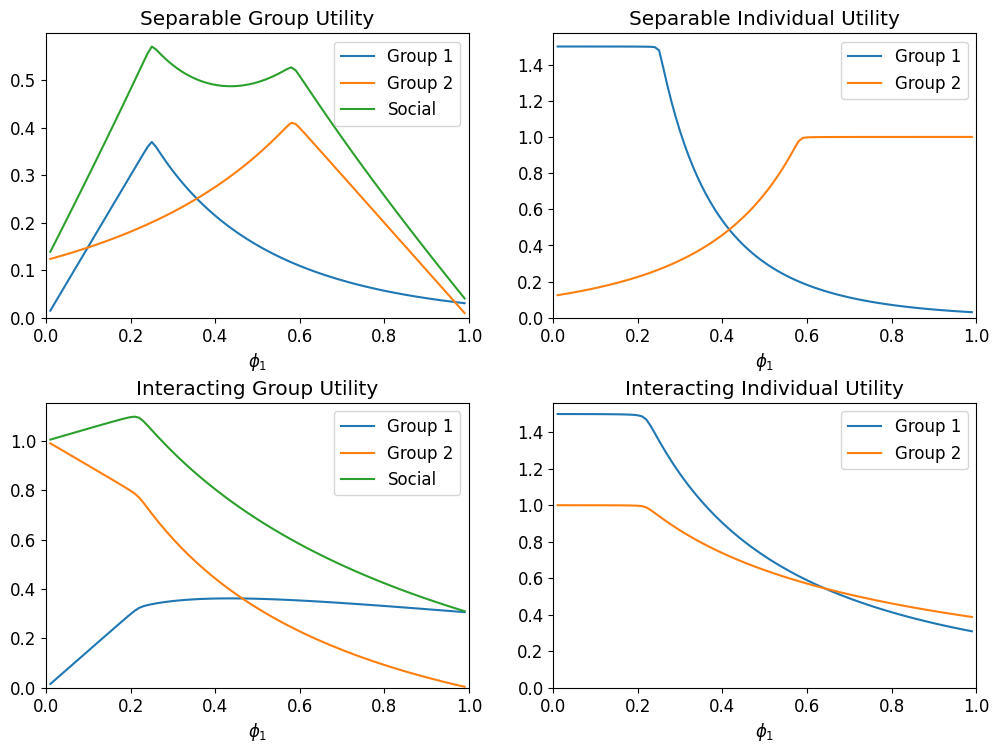
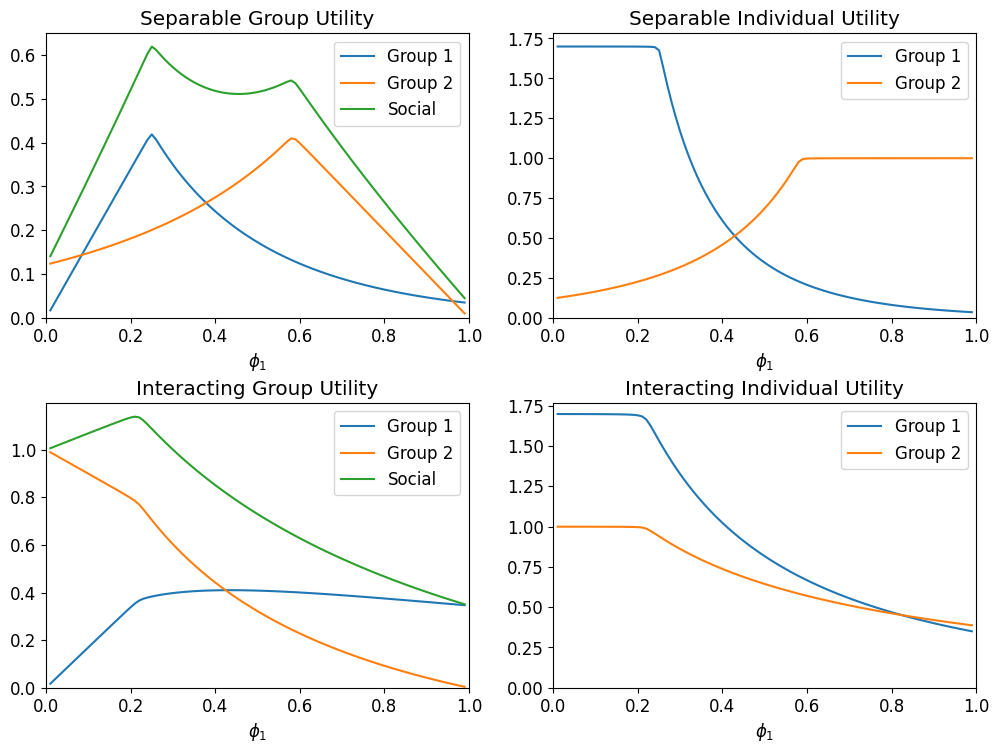
aligned

diff --git a/ComparisonPlotter.py b/ComparisonPlotter.py
@@ -122,7 +122,7 @@ def comparison_figure(beta, beta_ratio, gamma, epsilon, payment_ratio):
 
 
 def main():
-	comparison_figure(beta=2 / 14, beta_ratio=0.6, gamma=1 / 14, epsilon=0.0001, payment_ratio=1.5)
+	comparison_figure(beta=2 / 14, beta_ratio=0.6, gamma=1 / 14, epsilon=0.0001, payment_ratio=1.7)
 	return
 
 
